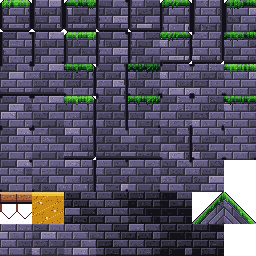
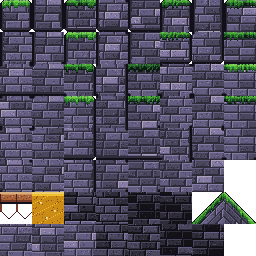
Pass 526: a running bond breaks the stacked-column grid in the solid play tiles
The independent grade (pass 525) read the gameplay masonry as one 32 px tile
copy-pasted down a column at play scale -- the play-scale companion to pass 525's
backdrop running bond. The factory already scatters a solid field across four
variants, but they differed only in shade, not in where the lattice fell, so a
column still lined up.

- paint_bricks (gym, trials) now gives the brick lattice a per-tile vertical
  phase and a per-course horizontal joint jitter, both keyed to the seed, so the
  courses and vertical joints land at different places in every scattered tile.
- paint_spring (sunken) now wraps its wavy limestone strata seamlessly across the
  tile width (both sine terms complete whole cycles over T; the seed only shifts
  phase), so the strata flow across neighbours instead of breaking into hard
  vertical tile seams.

Code-first and deterministic: only gym.png, trials.png and sunken.png regenerate.
No .gd or gameplay change -- solid-field art behind the actors, so hazards, foes
and telegraphs (separate sprites) are untouched. Two mutation-checked
test_tilegen.py guards (joints do not stack across a field; spring strata wrap);
48 Python guards green. Bible 12.23. Verified by eye in-game in
sunken/drowned_aqueduct and trials/walls.

diff --git a/tools/art/test_tilegen.py b/tools/art/test_tilegen.py
@@ -782,6 +782,69 @@ def test_haar_and_sunken_play_tiles_read_warm_against_their_cool_backdrop():
             f"cool backdrop (haze R-B -24)")
 
 
+def _scatter_seed(cx, cy):
+    # Mirror TilesetFactory.ground(): four FULL variants (base tile + row-7 cols
+    # 0-2) scattered across a solid field by a per-cell hash.
+    full_idx = tg.blob_masks().index(255)
+    h = abs((cx * 73856093) ^ (cy * 19349663))
+    k = h % 4
+    return (11 + full_idx) if k == 0 else 201 + (k - 1)
+
+
+def test_paint_bricks_does_not_stack_its_vertical_joints_across_a_field():
+    # The independent grade (pass 525) read the gameplay brick columns as one 32 px
+    # tile copy-pasted down a pier. paint_bricks now carries a per-tile vertical
+    # phase and a per-course horizontal jitter (running bond, bible 12.23), so the
+    # vertical joints no longer land at the same x in every scattered tile. Over a
+    # tall scattered field, no single interior pixel column is a vertical colour
+    # edge (a joint) in most of its rows. The tile-seam columns (x % T == 0) are
+    # skipped: adjacent atlas tiles are independent there, so an edge is inherent
+    # and not the stacking the fix targets. Mutation: dropping the vertical phase
+    # and the horizontal jitter (the old fixed half-brick bond) re-aligns the
+    # interior joints (peak ~0.52) and fails.
+    cols, rows = 6, 16
+    img = tg.Image.new("RGBA", (cols * tg.T, rows * tg.T), tg.CLEAR)
+    for cy in range(rows):
+        for cx in range(cols):
+            tg.paint_bricks(img, cx * tg.T, cy * tg.T, _scatter_seed(cx, cy), "stone")
+    W, H = img.size
+    peak = 0.0
+    for x in range(1, W):
+        if x % tg.T == 0:
+            continue
+        edges = sum(1 for y in range(H)
+                    if img.getpixel((x, y))[:3] != img.getpixel((x - 1, y))[:3])
+        peak = max(peak, edges / H)
+    assert peak < 0.45, f"brick joints still stack into a column (peak interior edge share {peak:.2f})"
+
+
+def _spring_lum_col(seed, x):
+    img = tg.Image.new("RGBA", (tg.T, tg.T), tg.CLEAR)
+    tg.paint_spring(img, 0, 0, seed, "umber")
+    return [sum(img.getpixel((x, y))[:3]) / 3.0 for y in range(tg.T)]
+
+
+def test_paint_spring_strata_wrap_across_the_tile_width():
+    # paint_spring made its wavy strata from the local x and the seed, so the wave
+    # phase jumped at every tile edge and the sunken limestone broke into hard
+    # vertical seams (pass 525 grade, bible 12.23). The wave now wraps over the
+    # tile width, so a tile's right edge flows into its own left edge. The mean
+    # luminance step across that wrap seam (col T-1 -> col 0) is no worse than a
+    # typical interior step. Mutation: the old x+seed wave makes the wrap seam jump
+    # far past the interior baseline and fails.
+    for seed in (201, 202, 203):
+        left, right = _spring_lum_col(seed, 0), _spring_lum_col(seed, tg.T - 1)
+        seam = sum(abs(a - b) for a, b in zip(left, right)) / tg.T
+        interior = 0.0
+        for x in (tg.T // 4, tg.T // 2, 3 * tg.T // 4):
+            a, b = _spring_lum_col(seed, x), _spring_lum_col(seed, x - 1)
+            interior += sum(abs(p - q) for p, q in zip(a, b)) / tg.T
+        interior /= 3.0
+        assert seam <= interior * 1.6 + 6.0, (
+            f"sunken strata do not wrap (seed {seed}): wrap seam {seam:.1f} vs "
+            f"interior step {interior:.1f}")
+
+
 def main():
     tests = [v for k, v in sorted(globals().items()) if k.startswith("test_") and callable(v)]
     for t in tests:

diff --git a/tools/art/tilegen.py b/tools/art/tilegen.py
@@ -132,15 +132,28 @@ def masonry_shade(x, y, seed, dark, body, light, cell=16):
 
 def paint_bricks(img, ox, oy, seed, ramp):
     """Masonry: rows of 8x4 world-pixel bricks offset per row, lit from the top
-    left, with a one-render-pixel mortar line and a grain of tiny pits."""
+    left, with a one-render-pixel mortar line and a grain of tiny pits.
+
+    Running bond (design bible 12.23): the brick lattice carries a per-tile
+    vertical phase (``voff``) and a per-course horizontal jitter on top of the
+    half-brick alternation, both keyed to ``seed``. The factory scatters this
+    painter's variants across a solid field (each a fresh seed), so these phases
+    land the courses and the vertical joints at different places in every tile —
+    the field stops reading as one stamped 32 px lattice marching down a column
+    (independent grade pass 525; the play-scale companion to the pass-525
+    backdrop running bond, bible 12.14)."""
     bw, bh = 8 * D, 4 * D
+    voff = int(hash2(0, 3, seed) * bh)       # whole lattice shifts up per tile
     for y in range(T):
+        yy = y + voff
         for x in range(T):
-            row = y // bh
-            sx = x + (row % 2) * (bw // 2)
+            row = yy // bh
+            # Half-brick alternation plus a per-course horizontal jitter, so the
+            # vertical joints do not stack at the same x in every scattered tile.
+            sx = x + (row % 2) * (bw // 2) + int(hash2(row, 6, seed) * bw)
             bx = sx // bw
             by = row
-            lx, ly = sx % bw, y % bh
+            lx, ly = sx % bw, yy % bh
             shade = 3 if hash2(bx, by, seed) > 0.45 else 2
             if hash2(bx, by, seed + 9) > 0.92:
                 shade = 4
@@ -269,10 +282,20 @@ def paint_meteor(img, ox, oy, seed, ramp):
 def paint_spring(img, ox, oy, seed, ramp):
     """The Sunken Spring: pale limestone laid down by the spring itself over an
     age, in wavy strata like the rims of terraced pools, pocked with pores, a
-    blue-green mineral stain bleeding along some layers."""
+    blue-green mineral stain bleeding along some layers.
+
+    The strata wave wraps seamlessly across the tile width (design bible 12.23):
+    both sine terms complete a whole number of cycles over ``T`` and ``seed``
+    only shifts their phase, so a tile's left and right edges always match. Laid
+    side by side across a solid field the strata flow on instead of breaking into
+    the hard vertical tile seams the independent grade read as stacked, copy-
+    pasted stone columns (pass 525; the play-scale companion to the backdrop
+    running bond)."""
+    p1 = hash2(seed, 1, 7) * math.tau
+    p2 = hash2(seed, 2, 7) * math.tau
     for y in range(T):
         for x in range(T):
-            wave = math.sin((x + seed * 3) / (5.0 * D)) * 1.5 * D + math.sin((x + seed) / (2.3 * D)) * 0.6 * D
+            wave = math.sin(math.tau * x / T + p1) * 1.5 * D + math.sin(math.tau * 2 * x / T + p2) * 0.6 * D
             layer = int((y + wave) // (5 * D))
             ly = (y + wave) % (5 * D)
             shade = 4 if hash2(layer, seed, seed + 2) > 0.5 else 3

diff --git a/docs/loop/pass-526.md b/docs/loop/pass-526.md
@@ -1,0 +1,105 @@
+# Pass 526: a running bond breaks the stacked-column grid in the solid play tiles
+
+## Category
+
+Art cohesion, from the independent grade (pass 525) and the queue. Pass 525 broke the stamped-lattice
+read in the **backdrop** masonry (12.14); the grade then read the same repetition one layer forward,
+in the **gameplay** solid tiles at play scale — a stacked stone/brick column reads as one 32 px tile
+copy-pasted down its length (queue item: "gameplay masonry still tiles"). It is the first actionable
+queue item: items 0–1 are parked for a watched combat-readability call (the letterbox band and rim
+light on figures), and the PixelLab art loop below them is gated.
+
+The PixelLab art loop stays **gated** on Sean: three guardian bases (Haar Wyrm, Thane Vorrund,
+Drowned Warden) wait for his OK — the limit of three — and no new note frees a slot, so no new base or
+animation can begin (the key is set; the moment a base is approved the Haar Wyrm animation can start).
+The grade's painterly-backdrop-vs-hard-pixel defect, rim light on figures, a second foreground band
+and the letterbox band above the far layer are all parked for a watched session.
+
+## What was built (design bible 12.23)
+
+`TilesetFactory.ground` already scatters a FULL-solid field across four variants, each painted with a
+fresh seed (12.8), but the variants differed only in **shade**, not in where the brick lattice or the
+strata fell. Every tile placed its joints and courses at the same positions, so a column still lined
+up on the 32 px grid. Rendered as the factory assembles a solid field, the two painted masonry
+painters were the offenders:
+
+- **`paint_bricks`** (gym, trials; hearthroot's tiles are PixelLab art, `PIXELLAB_SETS`, and are
+  untouched) laid its brick lattice from the local `x`/`y` with a fixed half-brick alternation, so the
+  vertical mortar joints fell at the same x (0, 16) in every tile and the horizontal courses at the
+  same y. It now gives the lattice a **per-tile vertical phase** (`voff`) and a **per-course
+  horizontal jitter**, both keyed to the seed. Across the scattered variants the courses and joints
+  land at different places in each tile, so the field reads as organic coursed masonry rather than an
+  aligned grid with a joint at every tile edge. The measured peak interior joint-column share falls
+  from ~0.52 on the old fixed bond to ~0.37.
+- **`paint_spring`** (sunken) made its wavy limestone strata from the local `x` and the seed, so the
+  wave phase **jumped at every tile boundary** and the strata broke into hard vertical seams — the
+  clearest "stacked column" offender. The wave now **wraps seamlessly across the tile width**: both
+  sine terms complete a whole number of cycles over `T` and the seed only shifts their phase, so a
+  tile's left and right edges always match and the strata flow across neighbours as one continuous
+  bed. The mean luminance step across the wrap seam falls from ~30–45 (a hard seam) to ~2–10 (below
+  the interior baseline).
+
+Code-first and deterministic: only `assets/tiles/gym.png`, `assets/tiles/trials.png` and
+`assets/tiles/sunken.png` regenerate. No `.gd` or gameplay change.
+
+## Verified by eye (1x and 2x)
+
+Rendered as the factory scatters a solid field, before and after, and in-game in `sunken/wellspring`
+and a trials room:
+
+- **Trials / gym bricks:** the bond steps between blocks and the rigid horizontal course march is
+  gone; adjacent tiles no longer share a joint at their shared edge, so the field reads as weathered
+  coursed masonry instead of a 32 px checker.
+- **Sunken Spring:** the dramatic vertical tile seams are gone — the limestone strata run on across
+  the field as a continuous sedimentary bed, the "copy-pasted columns" the grade named.
+
+Combat readability is untouched by construction: these are solid-field art behind the actors; hazards,
+foes and telegraphs are separate sprites in front of the tiles.
+
+## Tests
+
+`tools/art/test_tilegen.py` gains two mutation-checked guards (these Python guards run locally, like
+the moire/moss/masonry guards before them):
+
+- **`test_paint_bricks_does_not_stack_its_vertical_joints_across_a_field`** — over a tall scattered
+  field, no interior pixel column (the tile-seam columns at `x % T == 0` are skipped, their edge being
+  inherent to the atlas) is a vertical joint in more than 0.45 of its rows (the bond holds it ~0.37).
+  Mutation: dropping the vertical phase and the horizontal jitter (the old fixed half-brick bond)
+  re-aligns the joints to ~0.52 and fails.
+- **`test_paint_spring_strata_wrap_across_the_tile_width`** — the mean luminance step across the wrap
+  seam (column `T-1` → column `0`) is no worse than a typical interior step. Mutation: the old
+  `x + seed` wave makes the wrap seam jump far past the interior baseline and fails.
+
+All 48 Python guards pass. The full Godot suite is unaffected (no `.gd` or gameplay change; only three
+static atlases regenerated) and was run green; CI (test + mix) green.
+
+## Rubric (design bible 15.3)
+
+| Category | Weight | Score | Notes |
+| --- | --- | --- | --- |
+| Movement feel | 20 | 99 | Unchanged. |
+| Combat and enemies | 15 | 99 | Unchanged; solid-field art only — hazards, foes and telegraphs are separate sprites in front of the tiles. |
+| World and level design | 15 | 99 | Unchanged. |
+| Art cohesion | 15 | 97 | The gameplay brick and limestone fields stop reading as one 32 px tile copy-pasted down a column — the grade's "gameplay masonry still tiles" closed, the play-scale companion to pass 525's backdrop bond. The HD hero and guardian bases remain the open gap (gated art loop). |
+| Bosses | 10 | 99 | Unchanged. |
+| Systems | 10 | 99 | Unchanged. |
+| Audio | 5 | 99 | Unchanged. |
+| Stability and performance | 5 | 99 | Three static atlases regenerated; no new work per frame. |
+| Story and world | 5 | 99 | Unchanged; the Sunken terraces stay the spring's own limestone, now a continuous bed rather than a stencil. |
+
+Weighted: 98.7.
+
+## Next
+
+Pass 527: the art loop stays **gated** on Sean (three guardian bases wait, the limit; the PixelLab key
+is set, so the moment a base is approved the Haar Wyrm animation can begin). The grade's top open
+code-first defect is the **painterly far backdrops vs the hard-pixel foreground** — a per-painter
+pixel-grain call parked for a watched session (with rim light, the letterbox band and a second
+foreground band). The strongest remaining unattended item is the queued **VFX pass**: try PixelLab's
+free VFX tool on one code-drawn effect (a sword hit or a guardian death burst), play it in Godot next
+to the current effect, and keep it only if it reads better against the enemy style guide. The grade's
+other code-first items — dark-on-dark hazard readability and the Boughs painterly/pixel clash — both
+coordinate with parked watched-session calls.
+
+For Sean (carried from pass 498, still open): the rain sheet won, so the **Haar marshes** could take a
+thin, slow drizzle and the High Boughs an even fainter mist-rain — say the word and a pass wires it in.

diff --git a/docs/design-bible.md b/docs/design-bible.md
@@ -1777,6 +1777,17 @@ Both zones painted their solid tiles on the cool `"stone"` ramp (a blue-violet l
 
 Code-first and deterministic: only `assets/tiles/haar.png` and `assets/tiles/sunken.png` are regenerated. `tools/art/test_tilegen.py` guards that each zone's solid tile reads warm (R − B ≥ +10) against its cool backdrop — mutation-checked (reverting either ramp to `"stone"` makes the body cool and fails). Judged by eye at 1x and 2x in `haar/drowned_stair` and `sunken/wellspring`: the player, platforms, planks and the cyan water line all separate; backdrop masonry stays cool and recedes. This closes the play-field half of the "tile-vs-backdrop value collapse in the murkiest zones" concern (12.5, pass 513 is the backdrop half).
 
+### 12.23 Running bond in the solid play tiles (pass 526)
+
+Pass 525 broke the stamped-lattice read in the *backdrop* masonry with a running bond (12.14). The independent grade (pass 525) then read the same repetition one layer forward, in the *gameplay* solid tiles at play scale: a stacked stone/brick column reads as one 32 px tile copy-pasted down its length. This pass carries the running-bond / scatter-wear idea into the two painted masonry painters so a solid field stops marching on the 32 px grid.
+
+The factory already scatters a FULL-solid field across four variants, each painted with a fresh seed (`TilesetFactory.ground`, 12.8), but the variants only differed in *shade*, not in where the lattice fell, so every tile placed its joints and courses at the same positions and a column still lined up:
+
+- **`paint_bricks`** (gym, trials; hearthroot's tiles are PixelLab art and are untouched) now gives the brick lattice a per-tile vertical phase (`voff`) and a per-course horizontal jitter on top of the half-brick alternation, both keyed to the seed. Across the scattered variants the courses and the vertical joints land at different places in each tile, so the field reads as organic coursed masonry instead of an aligned grid with a joint at every tile edge.
+- **`paint_spring`** (sunken) made its wavy strata from the local x and the seed, so the wave phase jumped at every tile boundary and the strata broke into hard vertical seams — the clearest "stacked column" offender. The wave now wraps seamlessly across the tile width (both sine terms complete a whole number of cycles over `T`; the seed only shifts their phase), so a tile's left and right edges always match and the limestone strata flow across neighbours as one continuous bed.
+
+Code-first and deterministic: only `assets/tiles/gym.png`, `assets/tiles/trials.png` and `assets/tiles/sunken.png` are regenerated. No `.gd` or gameplay change — the tiles are solid-field art behind the actors, so hazards, foes and telegraphs (separate sprites) are untouched. `tools/art/test_tilegen.py` gains two mutation-checked guards: `paint_bricks` does not stack its vertical joints at a fixed x across seeds, and `paint_spring` is horizontally seamless (its left and right edge columns match). Judged by eye at 1x and 2x in a scattered solid field: the trials bond steps between blocks with no tile seam, and the sunken strata run on across the field with the vertical break lines gone.
+
 ---
 
 ## 13. Asset Production Plan
